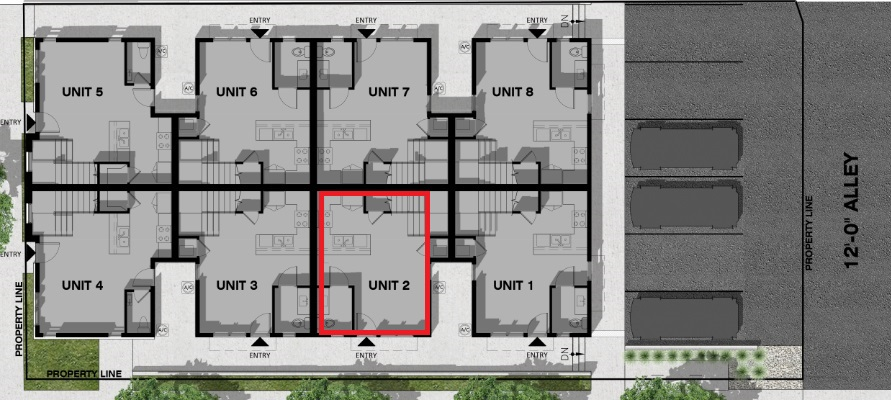
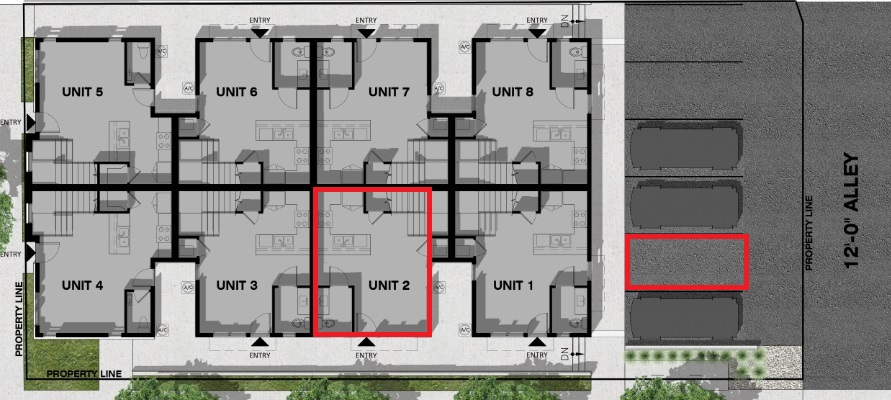
add parking spot 2 to unit 2

Changed region(s): [[0.3333, 0.45, 0.4848, 0.87], [0.697, 0.57, 0.8485, 0.75]]

diff --git a/zen8/units2367.html b/zen8/units2367.html
@@ -150,7 +150,7 @@
                     <div class="media-content">
                         <div class="mbr-section-text">
                             <p class="mbr-text mb-0 mbr-fonts-style display-7">
-                               <strong>Unit 2</strong><br>Available, street parking
+                               <strong>Unit 2</strong><br>Available, parking spot #2
 			       <br>Great curb appeal on Zenobia Street
 <br>Indoor = 1063
 <br>Roof Deck = 176
